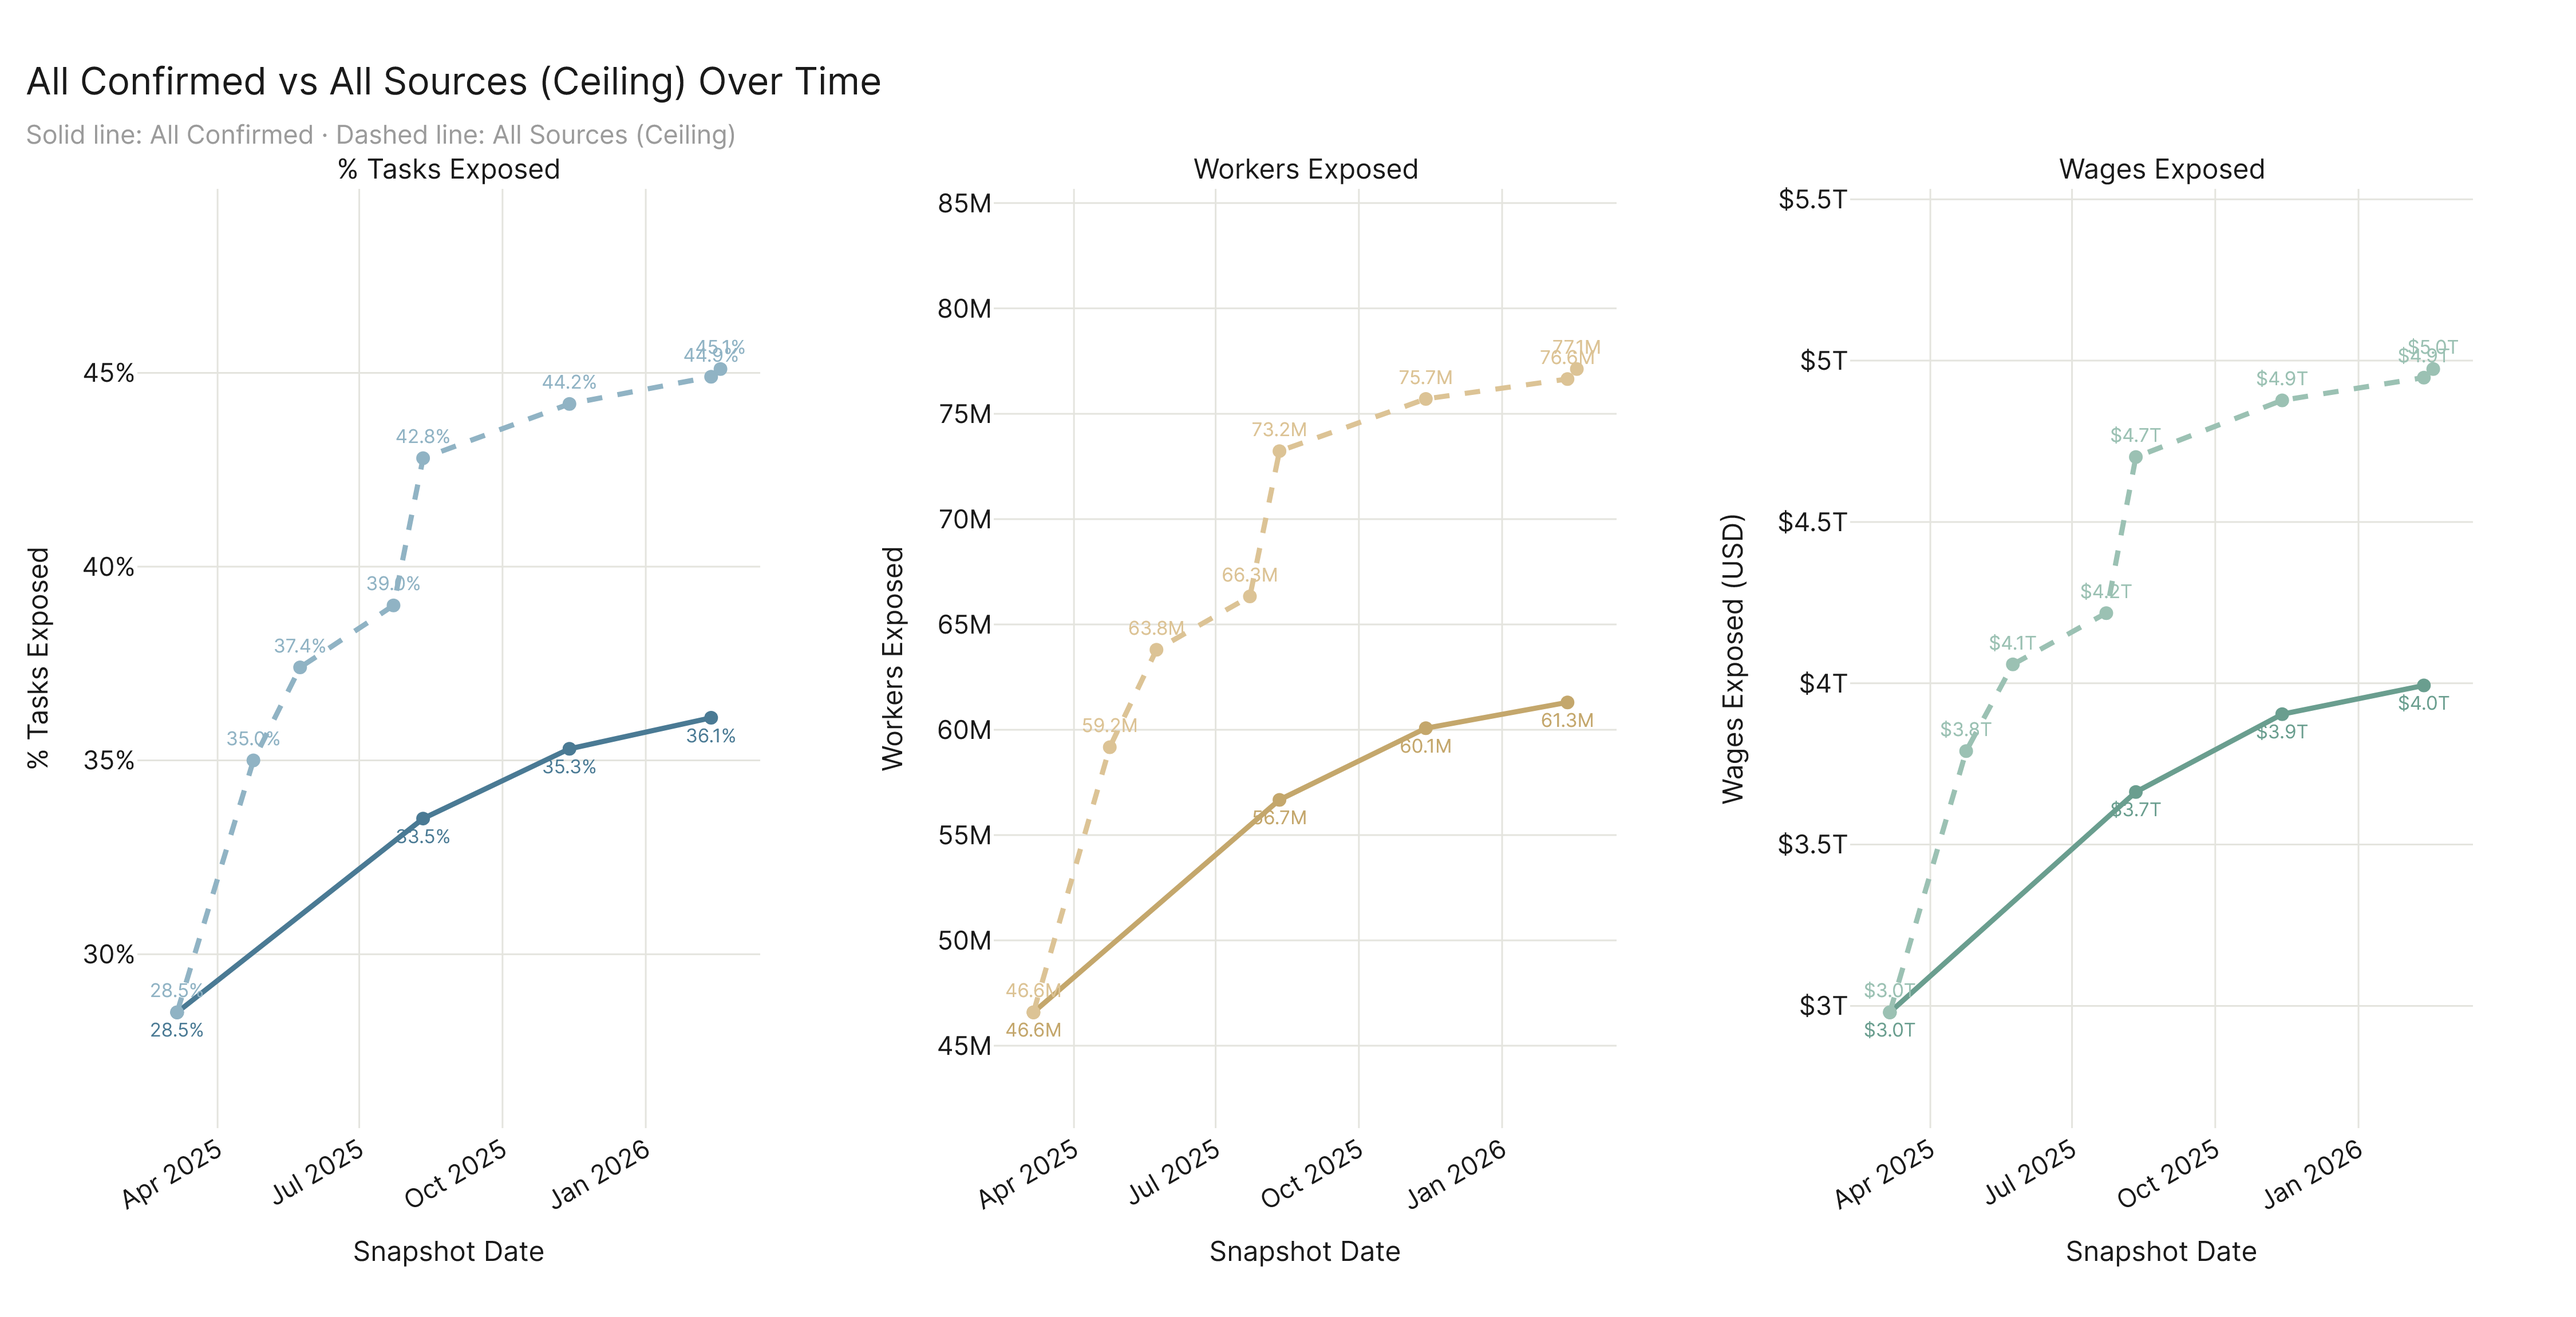
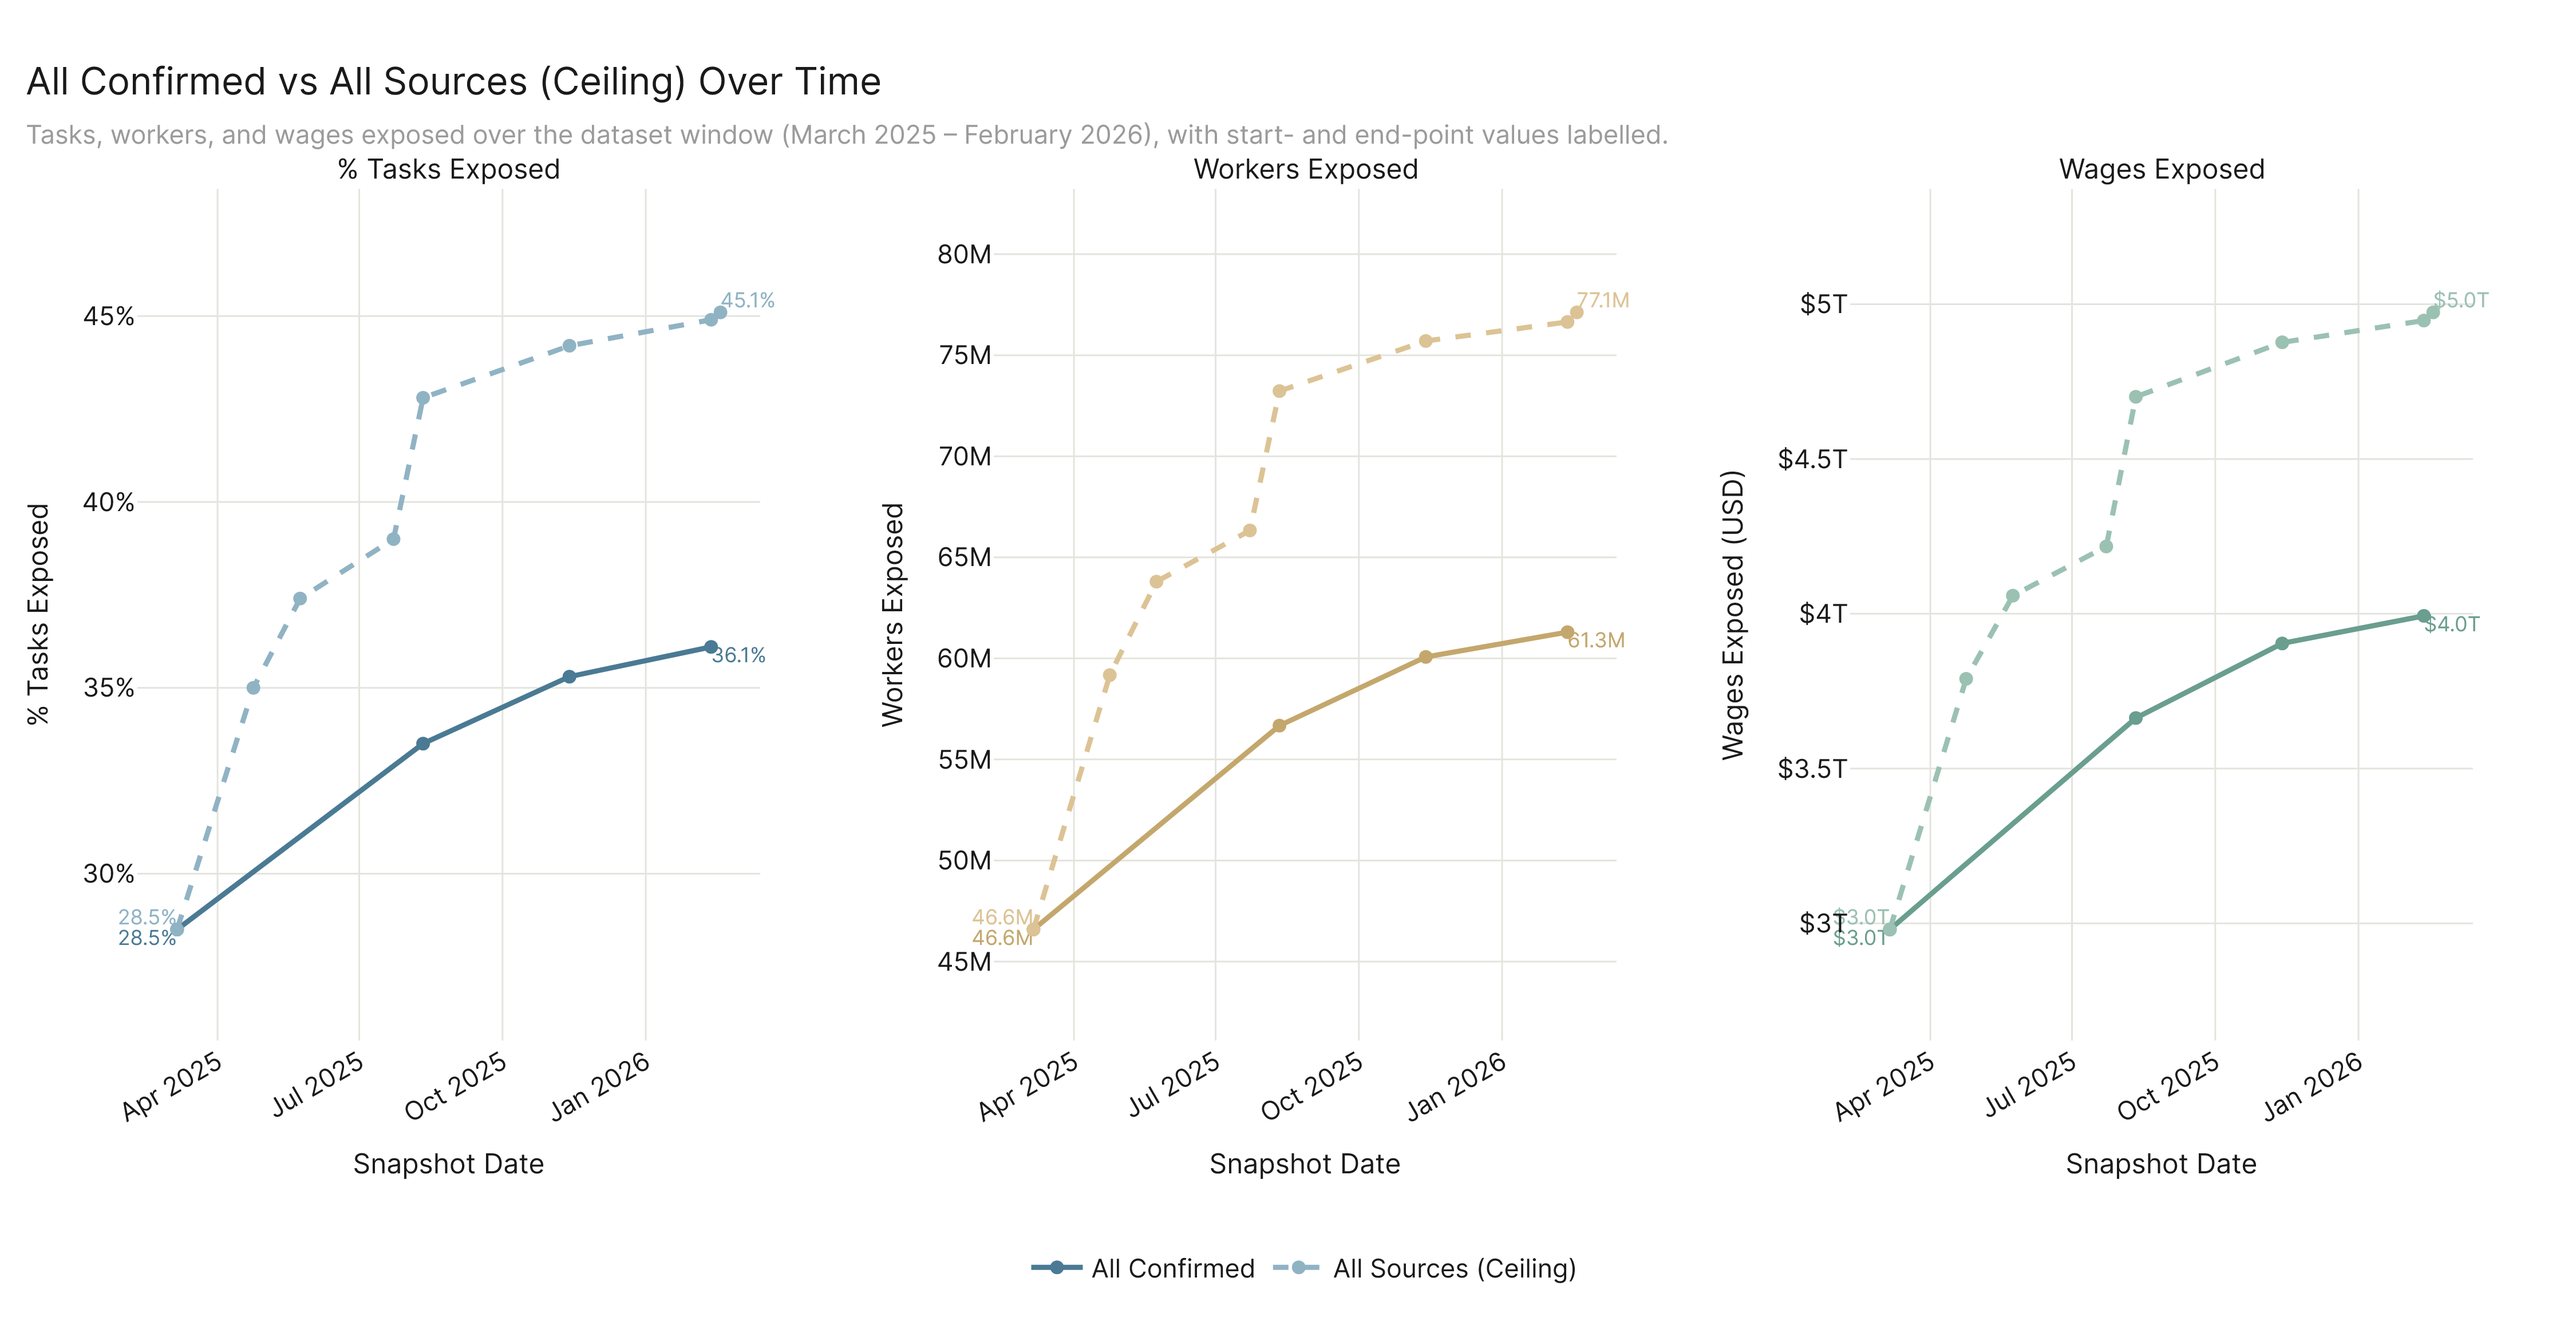
temporal_trend: fix overlap, restore legend, content-style subtitle
- Per-point text labels only at start and end dates of each line; mid
  points keep markers but drop text, so the August/Nov/Feb cluster on
  the ceiling line no longer stacks labels on top of each other.
- Restore the bottom-aligned legend (one entry per config) — drops the
  earlier "solid/dashed" subtitle hack.
- Subtitle is now a content explanation matching the rest of the paper
  ("Tasks, workers, and wages exposed over the dataset window ..."),
  not a legend description.
- End labels anchored on the side of their own line (confirmed = below,
  ceiling = above) so they stay clear of the other line.
- Y-pad tightened slightly; bottom margin grown so legend has room
  beneath the rotated x-axis ticks.

diff --git a/analysis/paper/results/part_1/run.py b/analysis/paper/results/part_1/run.py
@@ -842,12 +842,10 @@ def _build_combined_table(trend_df: pd.DataFrame, results: Path, figures: Path) 
 
 def _build_three_panel_trend(trend_df: pd.DataFrame, results: Path, figures: Path) -> None:
     """Three side-by-side panels (Tasks / Workers / Wages), each plotting
-    All Confirmed and All Sources (Ceiling) lines. Y-axis ranges are
-    tightened to the data band so growth shape is visible (instead of
-    starting at 0). Per-panel color: tasks=blue, workers=gold, wages=green.
-    Confirmed line drawn solid in primary metric color; ceiling line drawn
-    dashed in the lighter shade. Lines distinguished by dash pattern, not
-    legend swatch."""
+    All Confirmed and All Sources (Ceiling) lines. Per-panel metric color:
+    tasks=blue, workers=gold, wages=green. All Confirmed = solid line in
+    primary color; All Sources (Ceiling) = dashed line in lighter shade.
+    Y-axis ranges are tightened to the data band (not zero-anchored)."""
     panels = [
         ("pct",     "% Tasks Exposed", "% Tasks Exposed",     "tasks",
          lambda v: f"{v:.1f}%",
@@ -872,48 +870,63 @@ def _build_three_panel_trend(trend_df: pd.DataFrame, results: Path, figures: Pat
         # Track values per panel for y-range
         panel_vals: list[float] = []
         for config_key in TREND_CONFIGS:
-            subset = trend_df[trend_df["config"] == config_key].sort_values("date")
+            subset = trend_df[trend_df["config"] == config_key].sort_values("date").reset_index(drop=True)
             label = ANALYSIS_CONFIG_LABELS[config_key]
             if config_key == "all_confirmed":
                 color = METRIC_COLORS[metric_key]
                 dash = "solid"
+                # Confirmed is the lower line — anchor end label below it
+                # so it doesn't crash up into the ceiling line.
+                end_position = "bottom right"
+                start_position = "bottom left"
             else:
                 color = METRIC_COLORS_LIGHT[metric_key]
                 dash = "dash"
+                # Ceiling is the upper line — anchor end label above it.
+                end_position = "top right"
+                start_position = "top left"
+            xvals = list(subset["date"])
             yvals = list(getter(subset))
             panel_vals.extend(float(v) for v in yvals)
 
-            # Confirmed line is the lower line — labels go BELOW it; ceiling
-            # line is the upper line — labels go ABOVE it. This keeps each
-            # label clear of the other line as well as its own markers.
-            if config_key == "all_confirmed":
-                positions = ["bottom center"] * len(subset)
-            else:
-                positions = ["top center"] * len(subset)
-
+            # 1. The line + markers (no per-point text).
             fig.add_trace(go.Scatter(
-                x=subset["date"],
-                y=yvals,
+                x=xvals, y=yvals,
                 name=label,
                 legendgroup=config_key,
-                showlegend=False,
-                mode="lines+markers+text",
+                showlegend=(col_idx == 1),
+                mode="lines+markers",
                 line=dict(color=color, width=3, dash=dash),
                 marker=dict(size=8, color=color),
-                text=[fmt_fn(v) for v in yvals],
-                textposition=positions,
-                textfont=dict(size=ANNOT_FS - 1, color=color, family=FONT_FAMILY),
+                hovertemplate=f"<b>{label}</b><br>%{{x}}<br>%{{y}}<extra></extra>",
                 cliponaxis=False,
             ), row=1, col=col_idx)
 
-        # Tight y-range — pad the data band so end labels and rotated tick
-        # labels don't crash into each other. Wider top pad accommodates
-        # the ceiling-line "top center" labels.
+            # 2. Endpoint-only labels (start + end), kept short and clear of
+            #    each other since the start/end x positions are well-separated.
+            if len(subset) >= 1:
+                idxs = [0] if len(subset) == 1 else [0, len(subset) - 1]
+                positions = [start_position, end_position] if len(idxs) == 2 else [end_position]
+                ep_x = [xvals[i] for i in idxs]
+                ep_y = [yvals[i] for i in idxs]
+                ep_text = [fmt_fn(yvals[i]) for i in idxs]
+                fig.add_trace(go.Scatter(
+                    x=ep_x, y=ep_y,
+                    mode="text",
+                    text=ep_text,
+                    textposition=positions,
+                    textfont=dict(size=ANNOT_FS, color=color, family=FONT_FAMILY),
+                    showlegend=False, hoverinfo="skip",
+                    cliponaxis=False,
+                ), row=1, col=col_idx)
+
+        # Tight y-range — wider top + bottom padding so endpoint labels fit
+        # without bumping into the panel title or the x-axis.
         if panel_vals:
             v_lo, v_hi = min(panel_vals), max(panel_vals)
             spread = v_hi - v_lo
             pad_lo = spread * 0.18
-            pad_hi = spread * 0.28
+            pad_hi = spread * 0.20
             y_min = max(0.0, v_lo - pad_lo)
             y_max = v_hi + pad_hi
         else:
@@ -941,10 +954,23 @@ def _build_three_panel_trend(trend_df: pd.DataFrame, results: Path, figures: Pat
     style_paper_figure(
         fig,
         "All Confirmed vs All Sources (Ceiling) Over Time",
-        subtitle="Solid line: All Confirmed · Dashed line: All Sources (Ceiling)",
+        subtitle=(
+            "Tasks, workers, and wages exposed over the dataset window "
+            "(March 2025 – February 2026), with start- and end-point values labelled."
+        ),
         height=PAPER_H - 20,
         width=PAPER_W + 100,
-        margin=dict(l=80, r=60, t=110, b=110),
+        margin=dict(l=80, r=60, t=110, b=140),
+    )
+
+    # Restore a single bottom-aligned legend (one entry per config).
+    fig.update_layout(
+        legend=dict(
+            orientation="h",
+            yanchor="bottom", y=-0.30, xanchor="center", x=0.5,
+            font=dict(size=LEGEND_FS, family=FONT_FAMILY),
+            bgcolor="rgba(255,255,255,0.9)",
+        ),
     )
 
     panel_titles = {p[1] for p in panels}

diff --git a/analysis/ANALYSIS_PRD.md b/analysis/ANALYSIS_PRD.md
@@ -338,7 +338,7 @@ The credibility argument. Four chart groups, narrative ordered convergence → a
 2. **External Benchmark Comparison — by Data Configuration**: 2×2 grid of 6×10 heatmaps. Y-axis = our 6 ANALYSIS_CONFIGS (now including `all_confirmed_conservative`). X-axis = 6 configs (lower-tri) + 4 external benchmarks. Same color scale, methodology, and external rollup as the source-level chart.
 3. **AI Economic Exposure Across Data Configurations** (the renamed "overview"): grouped horizontal bars per config, in Tasks → Workers → Wages order within each cluster. Includes the 6th config `all_confirmed_conservative`. Bar text: `36.1% tasks` / `61.3M (40.0%) workers` / `$4.0T (42.4%) wages`.
 4. **Temporal**:
-   - 3-panel growth chart (% Tasks Exposed / Workers Exposed / Wages Exposed). Per-panel metric color: tasks blue, workers gold, wages green. All Confirmed = solid line in primary metric color, All Sources (Ceiling) = dashed line in lighter shade. Legend replaced by a one-line "Solid line: All Confirmed · Dashed line: All Sources (Ceiling)" subtitle. Y-ranges tightened to data band, not zero-anchored.
+   - 3-panel growth chart (% Tasks Exposed / Workers Exposed / Wages Exposed). Per-panel metric color: tasks blue, workers gold, wages green. All Confirmed = solid line in primary metric color, All Sources (Ceiling) = dashed line in lighter shade. Per-point text labels only on start and end dates (mid-line points have markers but no text, so clustered dates don't crash labels into each other). Legend at the bottom shows one entry per series. Y-ranges tightened to data band, not zero-anchored.
    - Paired side-by-side per-config data table trimmed to Date / Unique Tasks Rated (+ Δ) / AI Capability (+ Δ). Two cream historical rows (2024-09-30, 2024-12-23) prepended at the top of BOTH tables. Task counts on those rows come from the same combined dataset family the line chart uses (`AEI Both + Micro` for confirmed, `All` for ceiling) — Sep 2024 = 8,319 tasks (Microsoft only contributing on that date), Dec 2024 = 9,067 tasks (Microsoft + AEI Conv v1 combined). AI Capability is barred for those rows since the multi-source combination doesn't have enough coverage that early in the series.
 
 Narrative arc: source-level convergence → config-level convergence → scale → growth trajectory. Benchmark comparisons (Seampoint, Iceberg) are woven in alongside the convergence charts as external validation evidence.
